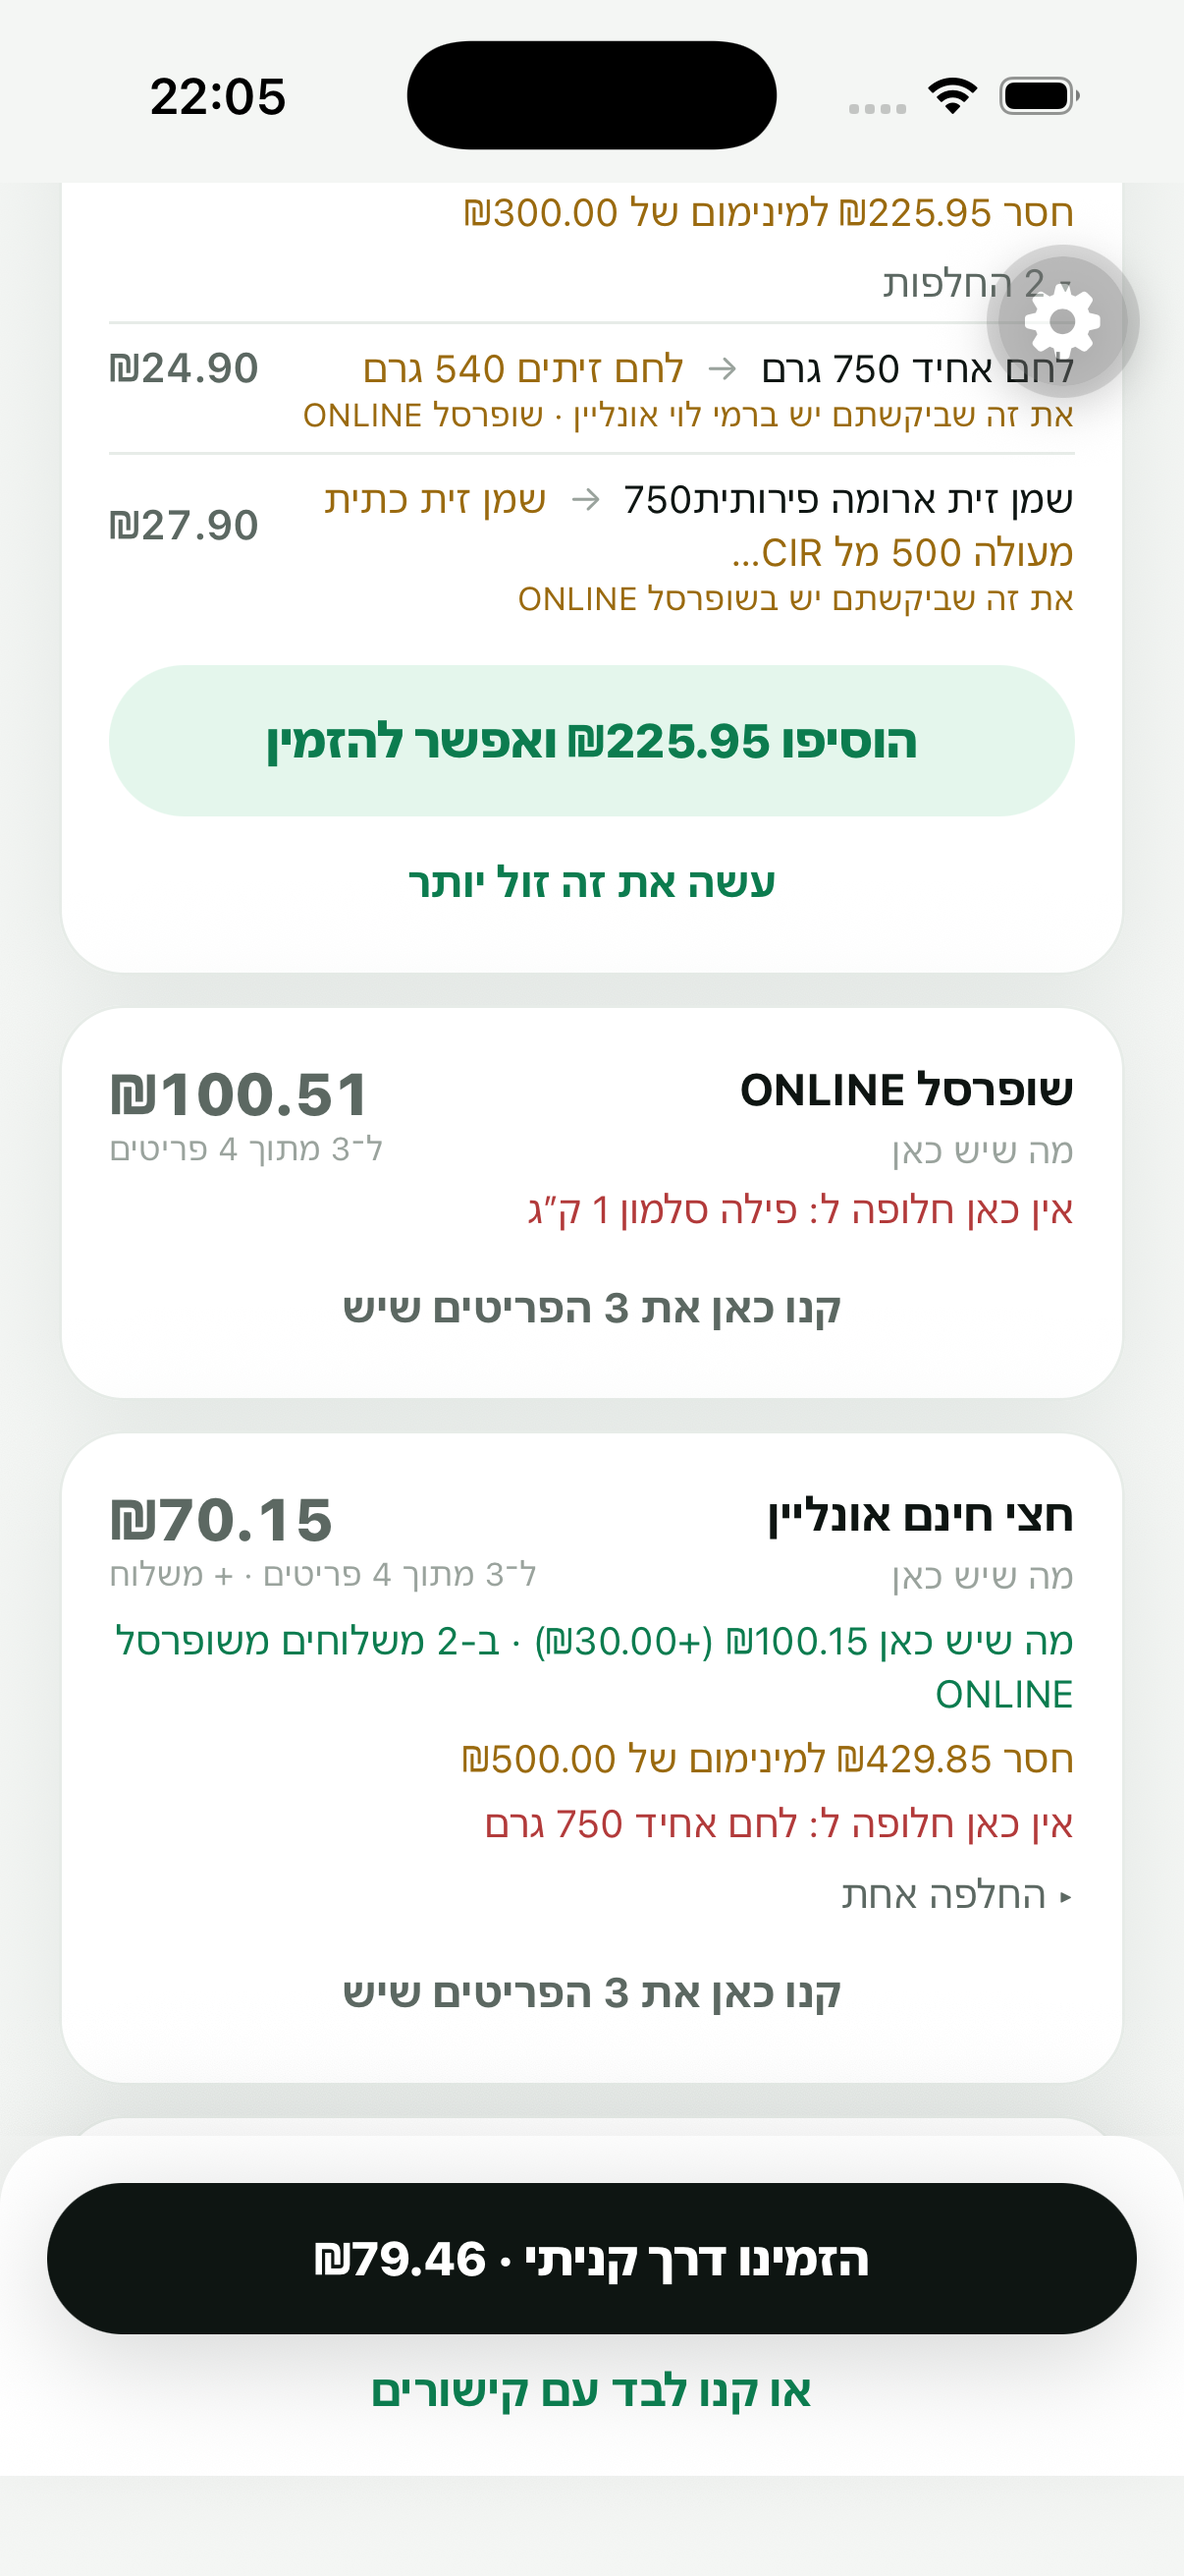
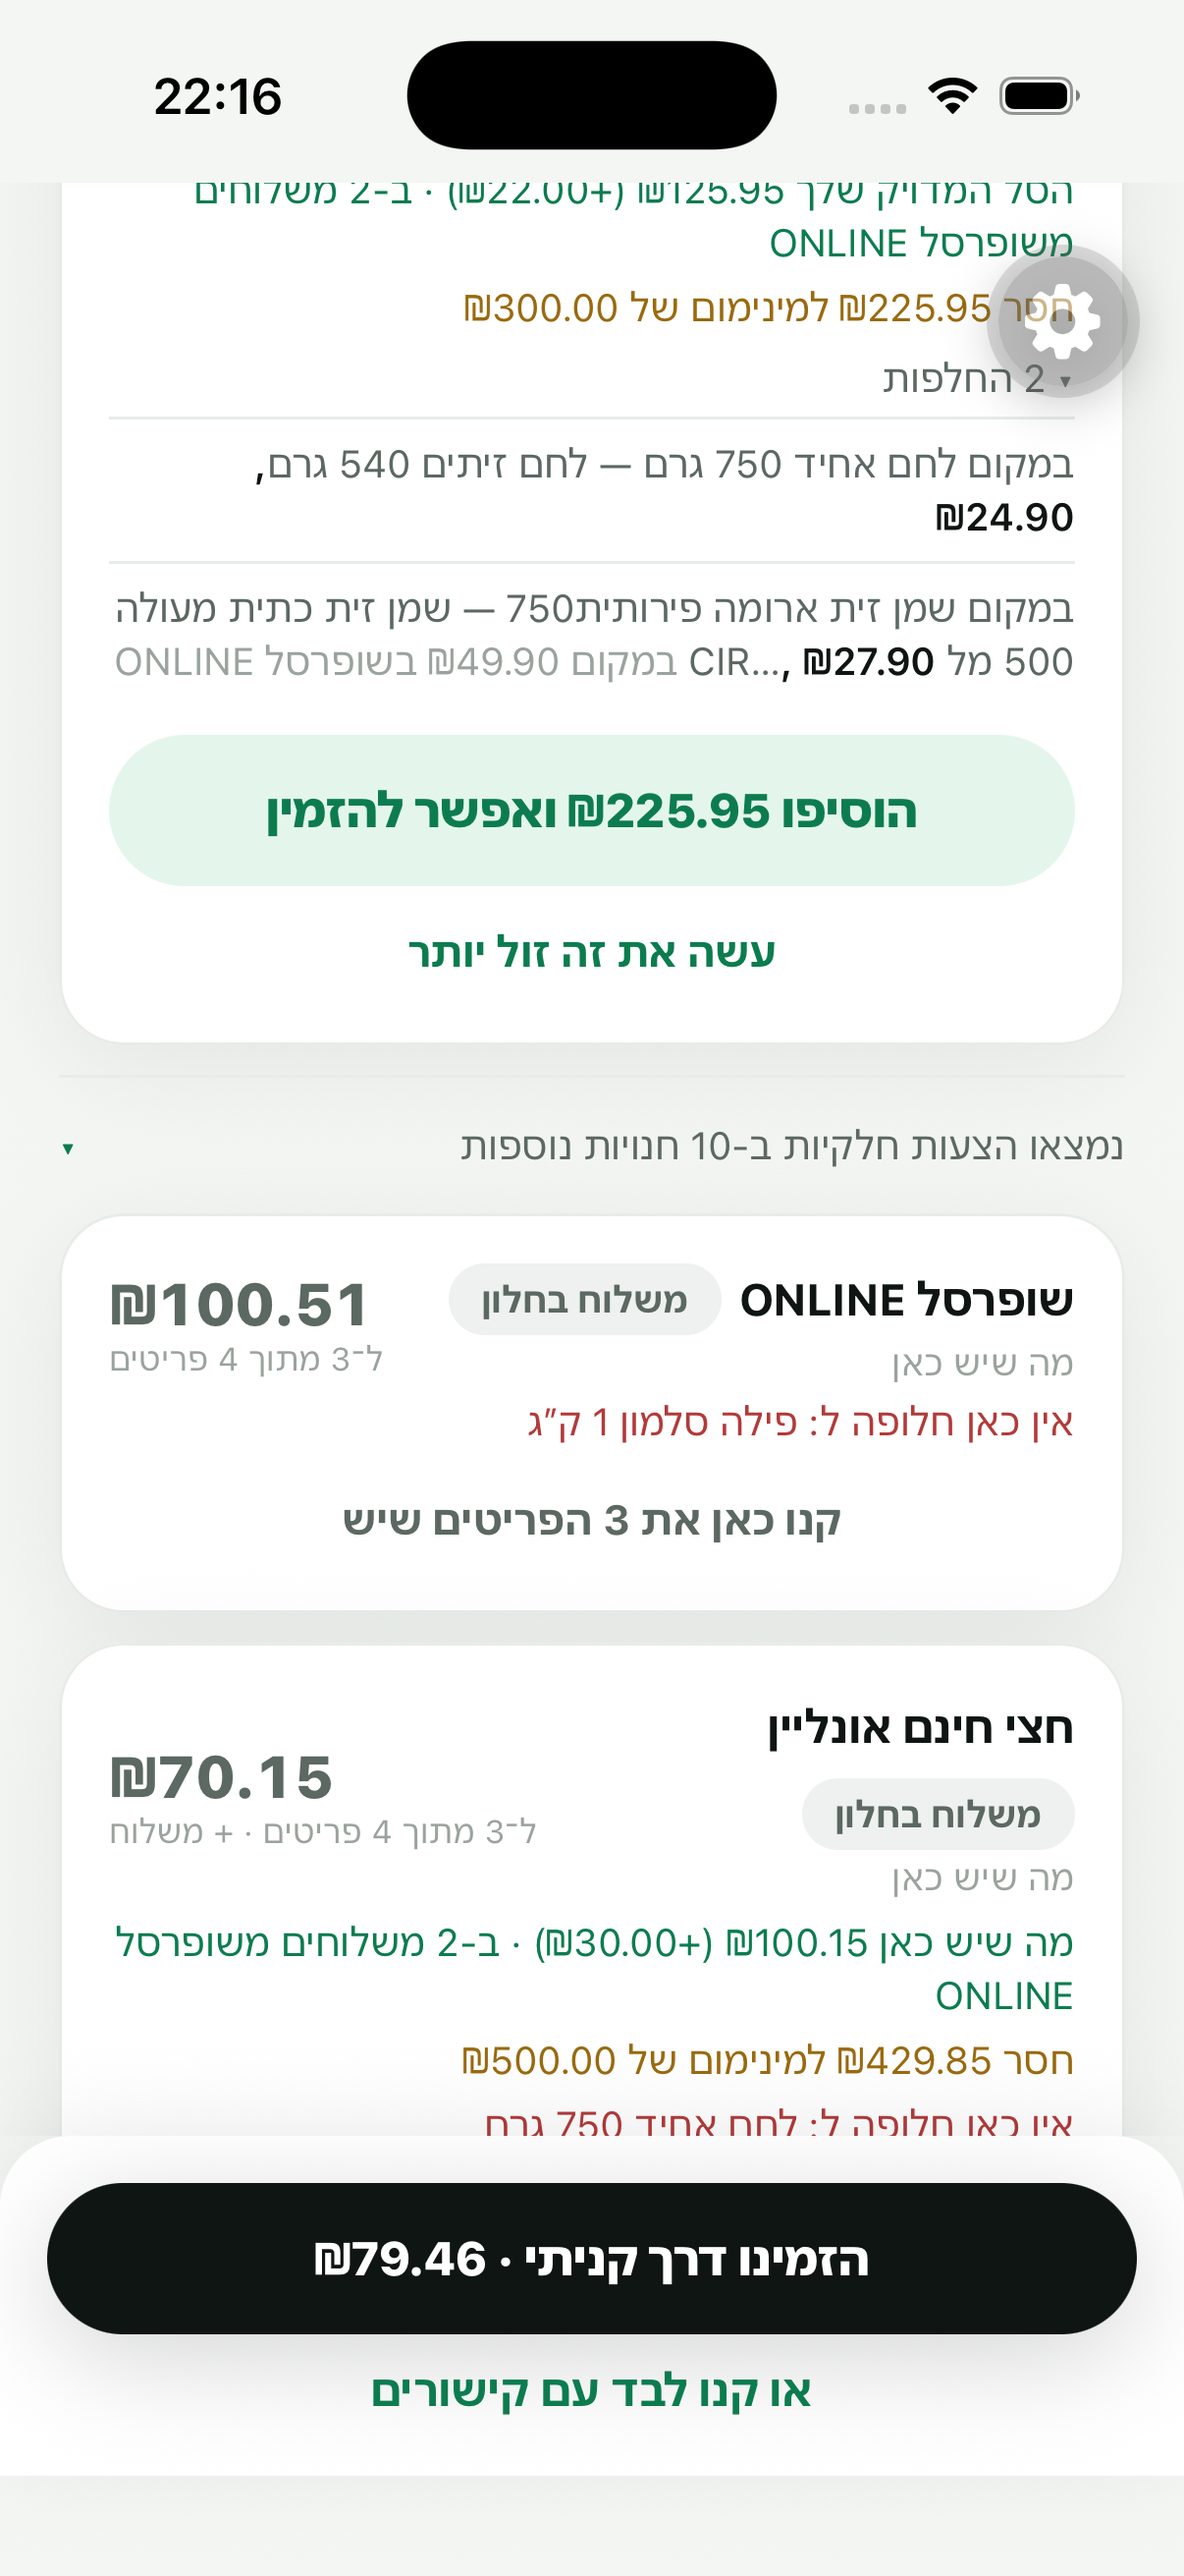
The flow follows the wording, and the shots from the green run
The arrow is gone from the difference line — it is "במקום X — Y, ₪n במקום ₪m" now —
so the flow asserts the line by id instead. 40 steps, 0 failures.

diff --git a/docs/backlog/app-designer.md b/docs/backlog/app-designer.md
@@ -104,5 +104,20 @@ proof lives. The whole list, and what it means, is `docs/BACKLOG.md`.
   "כל החנויות שמגיעות אליכם". A store that cannot fill the basket keeps its way to be bought from —
   as a quiet link reading "קנו כאן את N הפריטים שיש", never a primary button offering a basket it has
   not got (promises 1 and 6; the charter's "move it, size it, but keep it reachable").
-- [ ] **A full basket at every store** (docs/design/a-full-basket-everywhere.md), the owner's central ask: every store priced for the whole list using its own alternatives, the family's exact basket priced beside it with the difference in shekels, and a 'make it cheaper' action. Coverage becomes a fact on the card, not a reason to hide a store. *app-designer*
-- [ ] **Complete offers only, partial ones in their own section** (docs/design/a-full-basket-everywhere.md, the owner's 13 September refinement): every offer covers the whole basket with that store's alternatives; a store that cannot fill a line even with its nearest alternative moves to a collapsed "הצעות חלקיות ב-N חנויות" section; inside an offer a difference is one quiet line, "במקום X — Y, ₪n במקום ₪m". *app-designer*
+- [x] **Complete offers only, partial ones in their own section** (docs/design/a-full-basket-everywhere.md, the owner's 13 September refinement): every offer covers the whole basket with that store's alternatives; a store that cannot fill a line even with its nearest alternative moves to a collapsed "הצעות חלקיות ב-N חנויות" section; inside an offer a difference is one quiet line, "במקום X — Y, ₪n במקום ₪m". *app-designer* — in the same PR as the cards, since it changes them. Proof: `e2e/full-basket.mjs` asserts every offer among the answers covers the whole list and that each difference states both prices; `maestro/full-basket.yaml` opens the folded section and checks what is inside it.
+
+## What the refinement taught
+
+- **It arrived mid-build, and it was right to override.** The cards were already green when #119
+  merged the owner's own words. Two of the things it settles are things the build had got *wrong*, not
+  merely differently: partial offers were sitting in the same list as complete ones (so the eye
+  compared ₪100.51 for three lines against ₪103.95 for four), and every ordinary substitution was
+  amber — the colour that says "deal with this" — when a different size of egg is just a fact about
+  that store. Ordering and colour are the two things a card says before anyone reads a word of it.
+- **The second price needs a place, and it is another shop.** "₪14.90 במקום ₪49.90" only works
+  because the engine's `exactBasket.elsewhere[]` prices the family's own product at the store that
+  *has* it. So the line names that store: a number from somewhere else may never look like this
+  shop's. Where the engine has not priced it, the line simply stops after the first price.
+- **The card had no "when it delivers" at all** until this pass, though it is step one of the design's
+  own read order. Worth a habit: draw the read order, then check each step off against the built
+  screen, because the ones that carry no data are the ones that quietly never get built.
